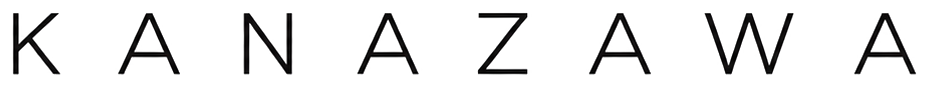
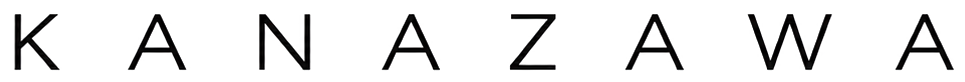
Swap KANAZAWA for the newest reference font image
Pixel-verified smaller than BISCUIT: ~7.3px cap-height vs BISCUIT's
~8.7px.

Claude-Session: https://claude.ai/code/session_01U675Sgsp12pN5oKdY9w3z6

diff --git a/assets/css/style.css b/assets/css/style.css
@@ -137,7 +137,7 @@ body {
 
 .hero-text-sub-image {
   display: block;
-  width: 108px;
+  width: 121px;
   height: auto;
   margin: 10px auto 0;
 }
